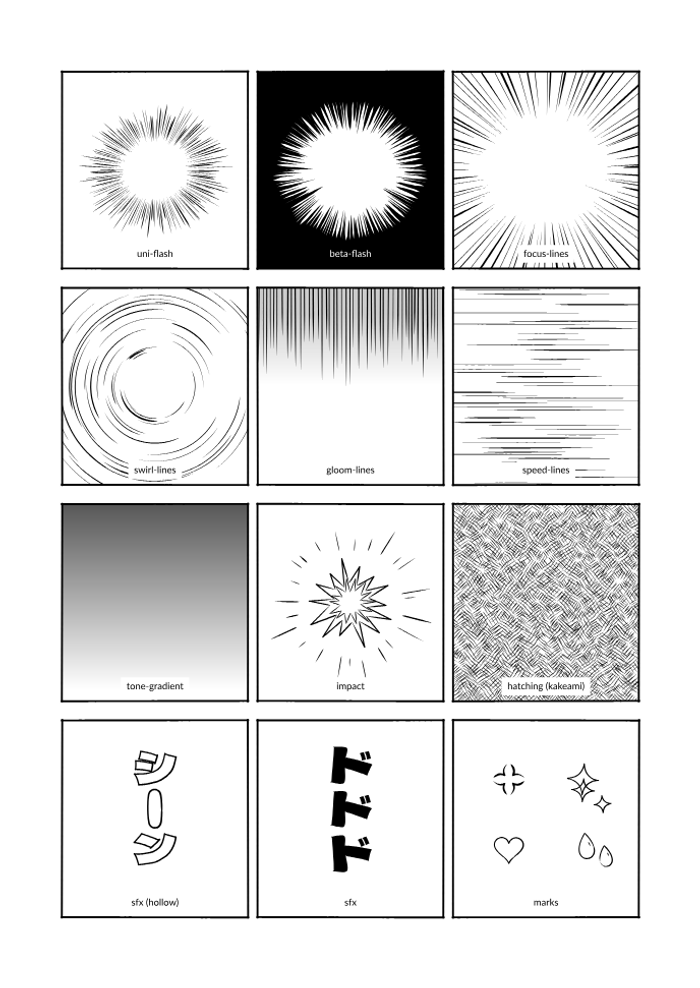
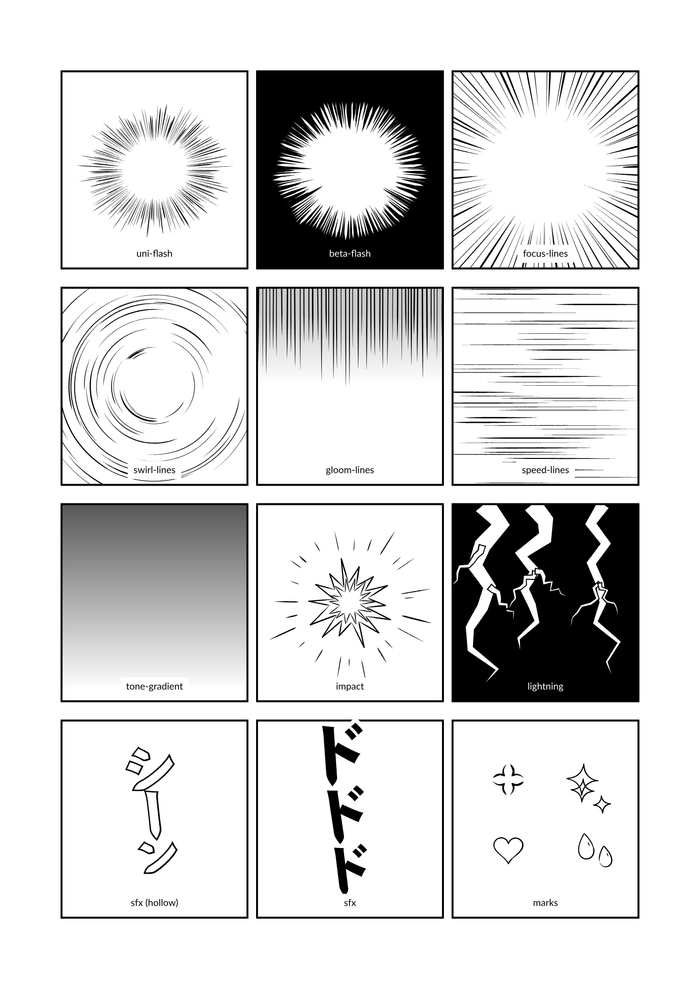
削除した効果を仕様と作例から除き、効果の一覧の画像を描き直す

diff --git a/docs/08-effects.md b/docs/08-effects.md
@@ -51,6 +51,8 @@
 
 ### 8.1.2 効果の一覧
 
+効果は、素材の絵の上に重ねて絵を引き立てる漫画の演出に限る。雨・煙・光・炎のような、場面の中の物や光を描く効果は持たない（[1.4.1](01-overview.md#141-絵を描かない)）。それらは素材の絵に描き込む。
+
 | `kind` | 名称 | 主な用途 | 優先度 |
 |---|---|---|---|
 | `focus-lines` | 集中線 | 注目、驚き、決めゴマ | P0 |
@@ -60,19 +62,8 @@
 | `swirl-lines` | 回転流線 | 回転、渦、めまい | P1 |
 | `impact` | 衝撃 | 打撃、衝突、爆発 | P1 |
 | `lightning` | 稲妻 | ショック、ガーン | P1 |
-| `aura` | 闘気 | 人物の輪郭から立ち上る炎状の気 | P1 |
-| `arcs` | 放電 | 人物の周囲の短い稲妻 | P1 |
-| `crack` | 亀裂 | 地面、壁、ガラスの破壊 | P1 |
-| `dust` | 土煙 | 着地、衝突 | P1 |
-| `smoke` | 煙 | 爆発後、漂う煙 | P1 |
 | `gloom-lines` | 縦線 | 落ち込み、絶望（ガーン） | P1 |
-| `hatching` | ハッチング・カケアミ | 陰影、暗さ、背景の質感 | P1 |
-| `rain` | 雨 | 雨 | P1 |
 | `vignette` | ぼかし枠 | 回想、夢、柔らかさ | P1 |
-| `snow` | 雪 | 雪 | P2 |
-| `glow` | 発光 | 光る物体、輪郭の後光 | P1 |
-| `light-rays` | 光線 | 後光、光の筋 | P1 |
-| `spotlight` | スポットライト | 舞台、暗闇の人物 | P1 |
 
 ### 8.1.3 線の分布
 
@@ -247,85 +238,7 @@ passes:
 | `stroke` | Stroke | `{ width: 0.25bmm }` | 黒い輪郭 |
 | `background` | Paint | `black` | 領域の背景 |
 
-### 8.7.2 亀裂（crack）
-
-放射状に割れた主線と枝、隣り合う線をつなぐ割れ目。片側の細い影が奥行きを作る。
-
-| パラメータ | 型 | 既定値 | 説明 |
-|---|---|---|---|
-| `center` | Point | 必須 | 破壊の中心 |
-| `radius` | Length / % | `30%` | 領域の短辺に対する半径 |
-| `count` | 整数 | `7` | 主亀裂の数 |
-| `branching` | 0〜1 | `0.35` | 分岐の頻度 |
-| `rings` | 整数 | `1` | 主亀裂をつなぐ段数 |
-| `thickness` | Range | `[0.15bmm, 0.65bmm]` | 先端へ抜く線幅 |
-| `shade` | Paint | `black` | 片側の影。`none` で無効 |
-| `target` | Region | region | `{ element: x }` など、対象面でクリップ |
-
-### 8.7.3 土煙（dust）
-
-着地点から左右に広がる、大小の波打つ雲塊と飛び散る小石。
-
-| パラメータ | 型 | 既定値 | 説明 |
-|---|---|---|---|
-| `origin` | Point | 領域の下中央 | 着地点 |
-| `direction` | `both` / Angle | `both` | 左右、または指定方向へ広がる |
-| `size` | Length / % | `25%` | 領域の短辺に対する大きさ |
-| `puffs` | 整数 | `7` | 雲塊数。根元ほど大きい |
-| `fill` | Paint | `paper` | 雲の面 |
-| `stroke` | Stroke | `{ width: 0.3bmm }` | Gペン風の輪郭 |
-| `tone` | Paint | `none` | 下面の陰影 |
-| `debris` | 整数 | `10` | 小石と破片の数 |
-
-### 8.7.4 煙（smoke）
-
-爆発後に漂う柔らかい輪郭と、内部の巻き込む線。`origin` の指定で煙柱になる。
-
-| パラメータ | 型 | 既定値 | 説明 |
-|---|---|---|---|
-| `origin` | Point | なし | 省略時は領域全体に分布 |
-| `direction` | Angle | `-90deg` | 煙柱の流れる方向 |
-| `density` | 0〜1 | `0.5` | 煙の数・被覆率。0 で無効 |
-| `fill` | Paint | `paper` | 煙の面 |
-| `stroke` | Stroke | `{ width: 0.2bmm }` | 柔らかい輪郭 |
-| `tone` | Paint | `none` | 下面の陰影 |
-
-全て `seed` で再現可能。共通の `region`、`clear`、`color`、`opacity`、`hand`、`background` を利用できる。
-印刷モノクロでも輪郭（ink）と面（fill / tone）は別ノード。
-実行可能な比較ページ: [impact-effects.yaml](examples/impact-effects.yaml)。
-
-### 8.7.5 闘気・輪郭放電（aura / arcs）
-
-画像のアルファ輪郭に沿う効果。`target` は画像の要素 ID または同じコマのキャラクター参照（必須）。
-未解決の参照、画像以外の対象はエラーになる。透明画像の各外周を約 256px の解像度で抽出し、
-微小な成分は炎・稲妻の生成から除く。完全透明の画像は何も描かない。
-アルファ境界にはアンチエイリアス用の小さな余白を確保するため、極端に細い隙間は閉じることがある。
-
-`aura` は輪郭に沿った炎の舌を 1〜3 層重ねる。`arcs` は `lightning` と同じ稲妻生成器を使う。
-人物の輪郭を偶奇規則の穴として面と線から取り除くので、画像より後に置いても人物内部には入らない
-（PNG・SVG 共通）。内側の透明な穴も人物の外周内として保護する。
-`region` とコマのクリップは通常通り有効。`background` は人物内部を保護するため使用しない。
-
-| 効果 | キー | 型 | 既定値・意味 |
-|---|---|---|---|
-| 共通 | `target` | 画像 ID / キャラクター参照 | 必須 |
-| 共通 | `length` | 正の Length | 炎の長さ `8bmm` / 放電の長さ `5bmm`。% は対象輪郭の長辺基準 |
-| 共通 | `fill` | Paint | `paper`。`tone(20%)` なども可。闘気では最内層の面、放電では稲妻の面 |
-| 共通 | `stroke` | Stroke | 黒、闘気 `0.25bmm` / 放電 `0.2bmm` |
-| 共通 | `seed` | 整数 | 同じ入力・シードで同じ形 |
-| `aura` | `tongues` | 整数 3〜256 | `32`。炎の舌の本数 |
-| `aura` | `upwardBias` | 0〜1 | `0.7`。上向きの炎を伸ばし、先端を上へ曲げる強さ |
-| `aura` | `layers` | 整数 1〜3 | `3`。外側から順に短くなる。外層の面は紙色 |
-| `arcs` | `count` | 整数 0〜1024 | `18`。短い稲妻の本数。0 で空出力 |
-
-```yaml
-layers:
-  - { image: hero-art, id: hero, size: [auto, 70%], at: [50%, 55%] }
-  - { effect: aura, target: hero, tongues: 30, upwardBias: 0.9, fill: 'tone(12%)', seed: 42 }
-  - { effect: arcs, target: hero, count: 16, seed: 17 }
-```
-
-実行例: [aura.yaml](examples/aura.yaml)、[モノクロ画像](images/aura.png)。
+実行例: [impact-effects.yaml](examples/impact-effects.yaml)。
 
 ## 8.8 縦線（gloom-lines）
 
@@ -340,38 +253,13 @@ layers:
 | `taper` | `end` \| `both` | `end` | 下端を抜く |
 | `tone` | Paint | `none` | 線の背後に重ねるトーン（例: `tone-gradient(30%, 0%, 180deg)`。上が濃く下へ薄くなる） |
 
-## 8.9 ハッチングとカケアミ（hatching）
+## 8.9 （欠番）
 
-（P1）
+ハッチング・カケアミ（`hatching`）は、絵の陰影を描く機能なので削除した。面の暗さはトーン（[8.13](#813-トーン)）で表す。
 
-| パラメータ | 型 | 既定値 | 説明 |
-|---|---|---|---|
-| `pattern` | `hatch` \| `cross` \| `kakeami` | `hatch` | 斜線、クロスハッチ、カケアミ |
-| `angle` | Angle | `45deg` | 最初の層の線の向き |
-| `spacing` | Length | `0.6mm` | 線の間隔 |
-| `thickness` | Range | `[0.08mm, 0.16mm]` | 線幅 |
-| `layers` | 整数 | `hatch` は 1、`cross` は 2、`kakeami` は 2 | 重ねる層の数（`kakeami` は 1〜4 で暗さが増す） |
-| `blockSize` | Range | `[2mm, 3.5mm]` | `kakeami` の 1 区画の大きさ |
-| `linesPerBlock` | 整数 | `4` | `kakeami` の 1 区画の線の数 |
-| `gradient` | `{ from, to, angle }` | - | 濃さの変化（1 が最も濃い）。線の長さと層の数で表す |
-| `edge` | `soft` \| `clean` | `soft` | `soft` は範囲の縁で線の長さを不揃いにして自然に途切れさせる |
-| `ruler` | 真偽値 | `false` | フリーハンドの線 |
+## 8.10 （欠番）
 
-**カケアミ**は、短い平行線の区画を、区画ごとに約 90 度（±15 度）回転させながら敷き詰め、層を重ねるたびに区画の位置をずらして作る。
-
-## 8.10 雨と雪（rain / snow）
-
-`rain`（P1）
-
-| パラメータ | 型 | 既定値 | 説明 |
-|---|---|---|---|
-| `angle` | Angle | `100deg` | 降る方向（90 度が真下） |
-| `rate` | 数値 | `2.5` | 1 cm² あたりの線の数（共通プロパティの `density` は、この値に掛ける倍率） |
-| `length` | Range | `[4mm, 14mm]` | 長さ |
-| `thickness` | Range | `[0.1mm, 0.22mm]` | 線幅 |
-| `taper` | `both` | `both` | 両端を抜く |
-
-`snow`（P2）は、大きさの範囲を持つ白い点（黒の細い縁を付けられる）を散布する。
+雨・雪（`rain`・`snow`）は、場面の中の物を描く機能なので削除した。
 
 ## 8.11 ぼかし枠（vignette）
 
@@ -385,32 +273,9 @@ layers:
 | `softness` | 0〜1 | `0.7` | ぼかしの柔らかさ |
 | `screen` | `am` \| `spatter` | `am` | モノクロ出力での表し方。`am` は網点、`spatter` はホワイトの飛沫のような不規則な点 |
 
-## 8.12 発光と光線（glow / light-rays / spotlight）
+## 8.12 （欠番）
 
-`glow` は要素の輪郭をぼかして後光を描く。`light-rays` は光源から放射状の帯を描く。
-`spotlight` は光源から床の光だまりへ伸びる光を描き、光が届かない部分を暗くする。
-既定の光の色は白。1 ビット出力では発光のぼかしを白い網点で表し、光線とスポットライトの明暗も網点化する。
-効果をキャラクター画像より前に配置すると、画像を白く塗りつぶさずに背後を照らせる。[作例](examples/light-effects.yaml)
-
-| 効果 | キー | 型 | 既定値・意味 |
-|---|---|---|---|
-| `glow` | `target` | 要素 ID または Region | 必須。画像 ID は配置済み画像のアルファ、吹き出しは輪郭、その他は外接矩形を使う。`trim` などの領域名が優先される。同名の画像には `{ element: trim, mode: alpha }` を使う |
-| | `blur` | 正の Length | `4bmm`。ぼかしの強さ（ガウスの標準偏差）。% は効果領域の短辺基準 |
-| `light-rays` | `center` | Point | 効果領域の中心。座標・位置キーワード・`hero.face` などの参照を指定可能 |
-| | `count` | 整数 | `24`。放射帯の本数（1〜1024、`density` を掛けた後も最大 1024） |
-| | `angle` | Angle | `0deg`。最初の帯の方向（右が 0 度、時計回り） |
-| | `spread` | 数値 | `0.55`。帯 1 本が隣の帯までの角度に占める割合（0 より大きく 1 以下） |
-| `spotlight` | `source` | Point | `[18%, 0%]`。円錐の頂点 |
-| | `target` | Point | `[60%, 78%]`。床の光だまりの中心 |
-| | `width` | 正の Length | `45%`。光だまりの幅。% は効果領域の幅基準 |
-| | `shade` | 0〜1 | `0.8`。円錐と光だまりの外側に重ねる黒の不透明度。0 で暗くしない |
-
-```yaml
-layers:
-  - { effect: light-rays, center: hero.face, count: 20 }
-  - { effect: glow, target: hero, blur: 4mm }
-  - { image: hero.png, id: hero, anchors: { face: [500, 400] } }
-```
+発光・光線・スポットライト（`glow`・`light-rays`・`spotlight`）は、絵の光を描く機能なので削除した。
 
 ## 8.13 トーン
 
@@ -534,7 +399,7 @@ paint: "radial-gradient(at 50% 40%, #fff8d0 0%, #ffd27a 60%, #f39a3d 100%)"
 ```
 
 - 構文は CSS のサブセットとし、意味も CSS と同じとする（構文は [16](16-grammar.md)）。角度は CSS と同じく、0 度が上向き、90 度が右向き、180 度が下向きで、グラデーションの進む方向を表す。`to top`、`to bottom`、`to left`、`to right`、`to top right` などのキーワードも使える。
-- 本ライブラリの他の角度（0 度が右向き、[3.4.3](03-document-format.md#343-角度angle)）とは基準が異なる。`tone-gradient()`、トーンの `gradient.angle`、ハッチングの `gradient.angle` も、CSS と同じ基準とする。
+- 本ライブラリの他の角度（0 度が右向き、[3.4.3](03-document-format.md#343-角度angle)）とは基準が異なる。`tone-gradient()`、トーンの `gradient.angle`も、CSS と同じ基準とする。
 - 色の補間は sRGB で行う（P2 で OKLab を選べるようにする）。
 - モノクロ出力では、各色を濃度に変換したトーングラデーションにする（変換式は [10.2.1](10-color-and-output.md#1021-輝度)）。
 
@@ -649,9 +514,8 @@ paint: { pattern: { asset: flower-tone, scale: 0.5, rotate: 15deg, offset: [0, 0
 | 場面 | 組み合わせ |
 |---|---|
 | 驚き・ショック | `beta-flash` + 人物 + `mark: surprise` + `as: shout` の吹き出し |
-| ガーン | `lightning` + `gloom-lines`（白線）または `crack` + `sfx: ガーン` |
-| 着地 | `dust` + `impact` + `sfx: ドン` |
-| 爆発後 | `smoke`（`tone` 付き）+ `crack` + `sfx: ゴゴゴ` |
+| ガーン | `lightning` + `gloom-lines`（白線）+ `sfx: ガーン` |
+| 着地 | `impact` + `sfx: ドン` |
 | 絶望 | `gloom-lines`（`tone` 付き）+ `mark: tremble` + `as: tremble` の吹き出し |
 | 決めゴマ | 断ち切りのコマ + `focus-lines`（`passes` で 2 重）+ `sfx` |
 | 走る・飛ぶ | `speed-lines`（`clear` で人物を避ける）+ `mark: motion` + `sfx`（`distort.skew`） |

diff --git a/docs/09-hand-drawn.md b/docs/09-hand-drawn.md
@@ -278,7 +278,7 @@ tip = pen.tipWidth / w₀
 | プリセット | 想定する画材 | `pressure` | `taper.in` | `taper.out` | `curvature` | `pull` | `tremor` の倍率 | `inkPool` | `cap` | 既定の用途 |
 |---|---|---|---|---|---|---|---|---|---|---|
 | `g-pen` | G ペン | 0.30 | 1.2 mm | 3.0 mm | 0.15 | 0.18 | 1.0 | 0.4 | round | 吹き出し、漫符、描き文字の輪郭、ベタフラッシュ |
-| `maru-pen` | 丸ペン | 0.15 | 0.8 mm | 2.0 mm | 0.08 | 0.08 | 0.8 | 0.1 | round | 効果線、思考の吹き出し、ハッチング |
+| `maru-pen` | 丸ペン | 0.15 | 0.8 mm | 2.0 mm | 0.08 | 0.08 | 0.8 | 0.1 | round | 効果線、思考の吹き出し |
 | `kabura-pen` | かぶらペン | 0.10 | 0.5 mm | 0.8 mm | 0.05 | 0.05 | 0.6 | 0 | round | 枠線 |
 | `marker` | 製図ペン・ミリペン | 0.03 | 0 | 0 | 0 | 0 | 0.5 | 0 | round | 均一な線が必要な場合 |
 | `brush` | 筆ペン | 0.55 | 2.5 mm | 6.0 mm | 0.30 | 0.25 | 1.2 | 0.6 | round | 描き文字、勢いのある効果 |
@@ -380,7 +380,7 @@ hand:
 - 各線は 1 本のストロークとして、ペンと入り抜きを適用する。
 - 線の配置は、層化ジッタと束の変調による（[8.1.3](08-effects.md#813-線の分布)）。
 - 確率 0.03 で、ほぼ同じ位置（0.1〜0.3 mm ずらし）にもう 1 本の線を描く（描き重ね）。
-- 定規を使わない効果線（ハッチングなど）には、経路の揺らぎをわずかに加え（`wobble` × 0.5）、線の長さにばらつきを持たせる。
+- 定規を使わない効果線（回転流線など）には、経路の揺らぎをわずかに加え（`wobble` × 0.5）、線の長さにばらつきを持たせる。
 - 集中線・ベタフラッシュの線は、外側の端を `region` の外に置く。これにより、コマの枠で線が切れ、外から描き込んだように見える。
 
 ### 9.11.2 トーン
@@ -421,11 +421,10 @@ hand:
 | 吹き出し（`say` など） | `g-pen` | | 0.25 mm | |
 | ナレーションの四角 | `g-pen` | ○ | 0.2 mm | |
 | 思考の吹き出し | `maru-pen` | | 0.2 mm | |
-| 集中線・流線・縦線・雨 | `maru-pen` | ○ | 効果の定義 | |
+| 集中線・流線・縦線 | `maru-pen` | ○ | 効果の定義 | |
 | ベタフラッシュ | `g-pen` | ○ | 効果の定義 | |
-| 稲妻・亀裂・土煙・煙 | `g-pen` | | 効果の定義 | 輪郭と面を分離 |
+| 稲妻 | `g-pen` | | 効果の定義 | 輪郭と面を分離 |
 | ウニフラッシュ | `maru-pen` | ○ | 効果の定義 | |
-| ハッチング・カケアミ | `maru-pen` | | 効果の定義 | |
 | 漫符 | `g-pen` | | 0.25 mm | |
 | 描き文字の輪郭（`edge`） | `g-pen` | | 0.3 mm | |
 | 描画図形 | `g-pen` | `ruler` の値 | 0.3 mm | |

diff --git a/docs/examples/README.ja.md b/docs/examples/README.ja.md
@@ -9,11 +9,9 @@
 | [minimal.yaml](minimal.yaml) | 最小の例。既定値（B5・モノクロ・右綴じ・縦書き・`ink`・フォントセット `manga-basic`）で 1 ページ | P0 のみ |
 | [b5-mono.yaml](b5-mono.yaml) | B5 判モノクロの同人誌原稿 2 ページ。断ち切り、斜めの間白、分割木、カタログのフォントによる混植、ルビ・傍点、各種の吹き出し・効果・トーン、描き文字、漫符、セリフの省略記法、連結、はみ出し、コマをまたぐ吹き出し、入稿用プロファイル | P0・P1 |
 | [sns-color-yonkoma.yaml](sns-color-yonkoma.yaml) | SNS 投稿用のカラー 4 コマ（1080 × 1350 px）。px 単位、色・グラデーションの塗り、4 コマのテンプレート | P0・P1 |
-| [color-page.yaml](color-page.yaml) | B5 のカラー 1 ページ。グラデーションの地、背景の乗算、雨、波に沿った描き文字、色付きの集中線・ウニフラッシュ、照れの漫符 | P0・P1 |
+| [color-page.yaml](color-page.yaml) | B5 のカラー 1 ページ。グラデーションの地、背景の乗算、波に沿った描き文字、色付きの集中線・ウニフラッシュ、照れの漫符 | P0・P1 |
 | [gallery-balloons.yaml](gallery-balloons.yaml) | 組み込みの吹き出しのスタイル（`as`）の一覧 | P0・P1 |
 | [gallery-effects.yaml](gallery-effects.yaml) | 効果・トーン・漫符・描き文字の一覧 | P0・P1 |
-| [light-effects.yaml](light-effects.yaml) | 黒ベタの上の後光、人物の背後の光線、舞台のスポットライト（カラー・1 ビット） | P1 |
-| [aura.yaml](aura.yaml) | 透明な人物画像の輪郭に沿う闘気と短い放電 | P1 |
 | [en-comic.yaml](en-comic.yaml) | 英語のページ（`lang: en`）。左から右へ読む順、`comic-basic` フォントセットの大文字の横書きの吹き出し、行の均等化 | P0・P1 |
 | [full-page-art.yaml](full-page-art.yaml) | 間白や枠なしゴマから塗り足しまでの絵が見えるぶち抜きゴマ。小ゴマに白い抜き縁を付ける（[出力画像](../images/full-page-art.png)） | P1 |
 

diff --git a/docs/examples/README.md b/docs/examples/README.md
@@ -9,11 +9,9 @@ English | [日本語](README.ja.md)
 | [minimal.yaml](minimal.yaml) | Minimal example: one page using only defaults (B5, monochrome, right-to-left binding, vertical text, `ink` hand-drawn preset, `manga-basic` font set) | P0 only |
 | [b5-mono.yaml](b5-mono.yaml) | Two-page B5 monochrome doujinshi manuscript. Uses bleed panels, slanted gutters, a split layout, mixed catalog fonts, ruby and emphasis dots, many balloon types, effects, tones, SFX lettering, manpu marks, dialogue shorthand, connected balloons, frame-breaking art, a balloon spanning panels, and a print profile | P0 and P1 |
 | [sns-color-yonkoma.yaml](sns-color-yonkoma.yaml) | Color 4-panel strip for social media (1080 × 1350 px). Uses px units, color and gradient fills, and the 4-panel template | P0 and P1 |
-| [color-page.yaml](color-page.yaml) | A one-page color B5 manga: gradient grounds, multiplied backgrounds, rain, SFX on a wave path, colored focus lines and uni flash, blush marks | P0 and P1 |
+| [color-page.yaml](color-page.yaml) | A one-page color B5 manga: gradient grounds, multiplied backgrounds, SFX on a wave path, colored focus lines and uni flash, blush marks | P0 and P1 |
 | [gallery-balloons.yaml](gallery-balloons.yaml) | Every built-in balloon style (`as`) on one page | P0 and P1 |
 | [gallery-effects.yaml](gallery-effects.yaml) | Effects, tones, marks, and SFX lettering on one page | P0 and P1 |
-| [light-effects.yaml](light-effects.yaml) | Silhouette glow on black, backlit rays, and a stage spotlight; renders in color and 1-bit print | P1 |
-| [aura.yaml](aura.yaml) | Contour-following flame aura and short lightning arcs around transparent character art | P1 |
 | [en-comic.yaml](en-comic.yaml) | An English page (`lang: en`): left-to-right reading, horizontal balloons in all caps with the `comic-basic` font set, balanced lines | P0 and P1 |
 | [full-page-art.yaml](full-page-art.yaml) | A full-bleed storm illustration seen through gutters and a frameless panel, with white knockouts around inset panels ([render](../images/full-page-art.png)) | P1 |
 

diff --git a/docs/README.ja.md b/docs/README.ja.md
@@ -17,7 +17,7 @@ mangacli は、漫画の構造を YAML（または TypeScript オブジェクト
 | 5 | [05-elements-and-images.md](05-elements-and-images.md) | 要素の共通プロパティ、配置、クリップとはみ出し、画像素材、フィルタ、図形、塗り、グループ |
 | 6 | [06-balloons.md](06-balloons.md) | 吹き出しの形状、線、しっぽ、サイズ決定、配置、連結、セリフ省略記法、自動配置 |
 | 7 | [07-text.md](07-text.md) | 組版（縦書き・横書き）、フォント（カタログと自動取得を含む）、混植、禁則、ルビ、傍点、縦中横、マークアップ、描き文字 |
-| 8 | [08-effects.md](08-effects.md) | 集中線、フラッシュ、流線、輪郭に沿う闘気・放電、トーン、グラデーション、漫符、散布 |
+| 8 | [08-effects.md](08-effects.md) | 集中線、フラッシュ、流線、稲妻などの演出の効果、トーン、グラデーション、漫符、散布 |
 | 9 | [09-hand-drawn.md](09-hand-drawn.md) | 手描き風描画エンジン（揺らぎ、筆圧、入り抜き、ストローク分割、ペン、仕上げ） |
 | 10 | [10-color-and-output.md](10-color-and-output.md) | カラーモード、モノクロ化、トーン描画、出力形式、解像度、トンボ、プロファイル、分版 |
 | 11 | [11-api.md](11-api.md) | TypeScript API、型、レンダラー、リゾルバー、プラグイン |

diff --git a/docs/README.md b/docs/README.md
@@ -17,7 +17,7 @@ This directory contains the full specification: features, document format, rende
 | 5 | [05-elements-and-images.md](05-elements-and-images.md) | Common element properties, placement, clipping and frame-breaking, image assets, filters, shapes, fills, groups |
 | 6 | [06-balloons.md](06-balloons.md) | Speech balloon shapes, strokes, tails, auto sizing, placement, connected balloons, dialogue shorthand, auto placement |
 | 7 | [07-text.md](07-text.md) | Typesetting (vertical and horizontal), fonts (including the font catalog and on-demand download), mixed fonts, line breaking rules, ruby, emphasis dots, tate-chu-yoko, inline markup, hand-lettered SFX |
-| 8 | [08-effects.md](08-effects.md) | Focus lines, flashes, speed lines, contour auras and lightning arcs, screentones, gradients, manpu marks, scattering |
+| 8 | [08-effects.md](08-effects.md) | Focus lines, flashes, speed lines, lightning and other overlay effects, screentones, gradients, manpu marks, scattering |
 | 9 | [09-hand-drawn.md](09-hand-drawn.md) | Hand-drawn rendering engine: wobble, pen pressure, tapering, stroke decomposition, pens, finishing |
 | 10 | [10-color-and-output.md](10-color-and-output.md) | Color modes, monochrome conversion, tone rendering, output formats, resolution, crop marks, profiles, separations |
 | 11 | [11-api.md](11-api.md) | TypeScript API, types, renderer, resolvers, plugins |

diff --git a/docs/03-document-format.md b/docs/03-document-format.md
@@ -148,7 +148,7 @@ x: 40        # 単位なしは page.units（既定 mm）
 
 数値（度）、または `"<数値>deg"`、`"<数値>rad"`、`"<数値>turn"`。0 度は右（+x 方向）、正の値は**時計回り**（y 軸が下向きのため）。
 
-ただし、グラデーション（`linear-gradient()`、`tone-gradient()`、塗りの `gradient.angle`、ハッチングの `gradient.angle`）の角度だけは、CSS と同じく **0 度が上向き（下から上へ進む）、90 度が右向き**の時計回りとする（[8.14.1](08-effects.md#8141-グラデーション)）。CSS の書き方をそのまま使えるようにするためである。
+ただし、グラデーション（`linear-gradient()`、`tone-gradient()`、塗りの `gradient.angle`）の角度だけは、CSS と同じく **0 度が上向き（下から上へ進む）、90 度が右向き**の時計回りとする（[8.14.1](08-effects.md#8141-グラデーション)）。CSS の書き方をそのまま使えるようにするためである。
 
 ### 3.4.4 点（Point）
 
